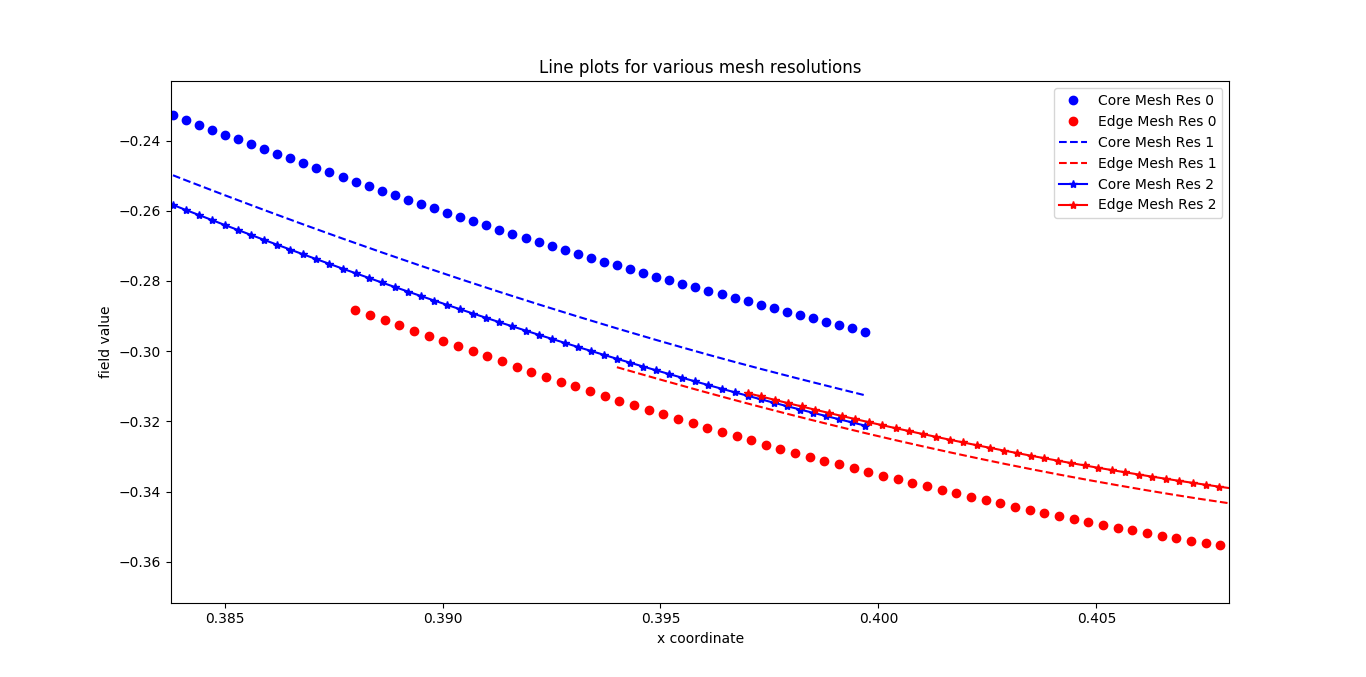
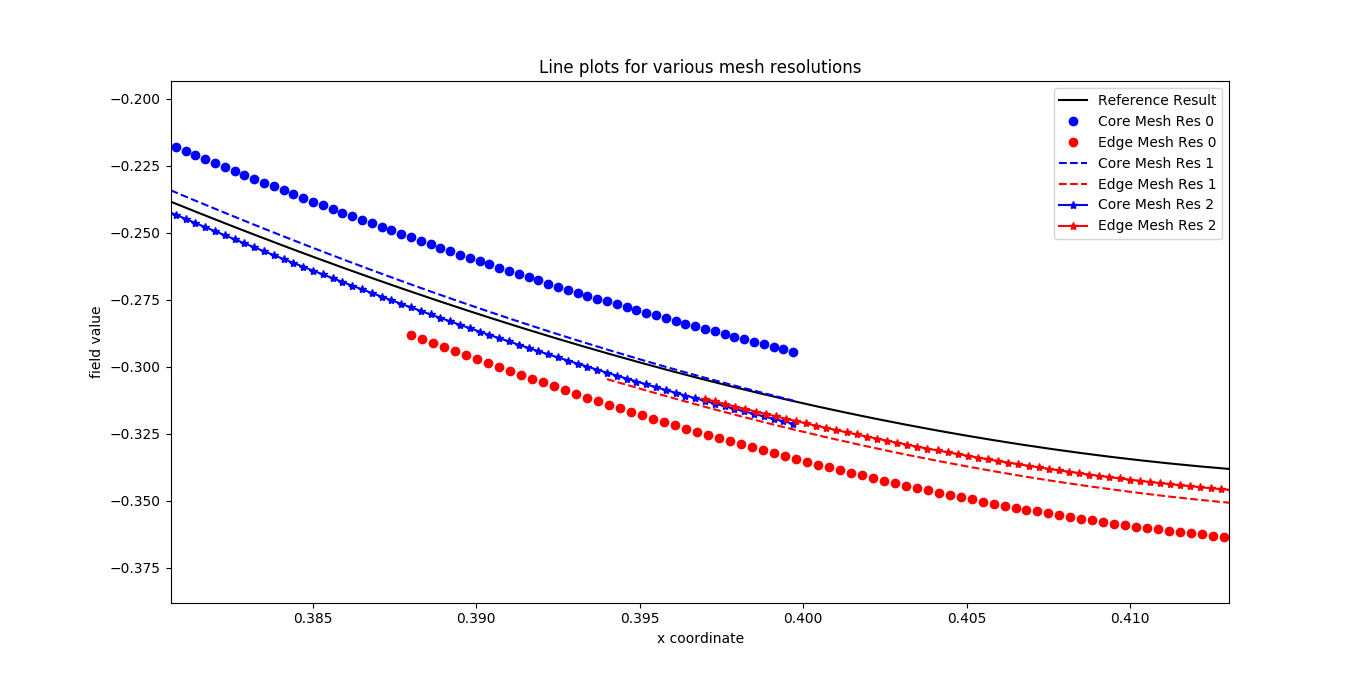
Adding reference field in plots

diff --git a/tools/compare_analysis.py b/tools/compare_analysis.py
@@ -185,11 +185,34 @@ def plot_cross_section(res_num, rmin, rmax_edge, rmin_core, rmax):
     coupled_vals = np.concatenate((line_core_f, line_edge_f), axis=0)
 
     gradient_vals = np.zeros(core_pts + edge_pts - 1)
-    for i in range(0, core_pts+edge_pts-1):
+    for i in range(core_pts+edge_pts-1):
         gradient_vals[i] = (coupled_vals[i+1] - coupled_vals[i]) / dr
 
     return core_x[:, 0], edge_x[:, 0], line_core_f, line_edge_f, gradient_core, gradient_edge
 
+
+def plot_ref_cross_section(ref_f, ref_pts):
+    line_x = []
+    n_points = 1000
+    dr = (0.5 - 0.2) / n_points
+
+    for i in range(n_points):
+        line_x.append([0.2 + dr * i, 0.0])
+
+    line_pts = np.array(line_x)
+
+    line_ref_f = griddata(ref_pts, ref_f, line_pts, method='cubic', fill_value=0.0)
+
+    gradient_vals = np.zeros(n_points - 1)
+    for i in range(n_points - 1):
+        gradient_vals[i] = (line_ref_f[i+1] - line_ref_f[i]) / dr
+
+    return line_pts[:, 0], line_ref_f, gradient_vals
+
+
+# Finest resolution for Polar code considered as reference result
+ref_points, ref_field = read_data('./output_ref/polar_ref.csv')
+print("Reference result has {} points".format(ref_field.size))
 
 # For each mesh resolution, fit data by interpolation and calculate error by L2 norm
 mesh_res = 3
@@ -219,6 +242,11 @@ for res in range(mesh_res):
     core_flux_plot.append(core_flux)
     edge_flux_plot.append(edge_flux)
 
+refpts_plot, refv_plot, ref_flux_plot = plot_ref_cross_section(ref_field, ref_points)
+plt.plot()
+
+plt.plot(refpts_plot, refv_plot, 'k-', label="Reference Result", linewidth=1.5)
+
 plt.plot(corepts_plot[0], corev_plot[0], 'bo', label="Core Mesh Res 0")
 plt.plot(edgepts_plot[0], edgev_plot[0], 'ro', label="Edge Mesh Res 0")
 
@@ -231,32 +259,40 @@ plt.legend(loc='best')
 plt.show()
 
 # Remove last x coordinate as gradient by forward difference is not computed at this point
-core_plot_pts = np.zeros(666)
-for i in range(core_plot_pts.size):
-    core_plot_pts[i] = core_pts[i]
+core_flux_pts = []
+edge_flux_pts = []
+for res in range(mesh_res):
+    corepts = []
+    for i in range(666):
+        corepts.append(corepts_plot[res][i])
+    core_flux_pts.append(corepts)
 
-edge_plot_pts = np.zeros(332)
-for i in range(edge_plot_pts.size):
-    edge_plot_pts[i] = edge_pts[i]
+    edgepts = []
+    for i in range(332):
+        edgepts.append(edgepts_plot[res][i])
+    edge_flux_pts.append(edgepts)
+
+ref_flux_pts = []
+for i in range(999):
+    ref_flux_pts.append(refpts_plot[i])
 
 plt.xlabel('x coordinate')
 plt.ylabel('flux')
 plt.title('Flux along line plots for various mesh resolutions')
 
-plt.plot(core_plot_pts, core_flux_plot[0], 'bo', label="Core Mesh Res 0")
-plt.plot(edge_plot_pts, edge_flux_plot[0], 'ro', label="Edge Mesh Res 0")
+plt.plot(ref_flux_pts, ref_flux_plot, 'k-', label="Reference Result", linewidth=1.5)
 
-plt.plot(core_plot_pts, core_flux_plot[1], 'b--', label="Core Mesh Res 1")
-plt.plot(edge_plot_pts, edge_flux_plot[1], 'r--', label="Edge Mesh Res 1")
+plt.plot(core_flux_pts[0], core_flux_plot[0], 'bo', label="Core Mesh Res 0")
+plt.plot(edge_flux_pts[0], edge_flux_plot[0], 'ro', label="Edge Mesh Res 0")
 
-plt.plot(core_plot_pts, core_flux_plot[2], 'b-*', label="Core Mesh Res 2")
-plt.plot(edge_plot_pts, edge_flux_plot[2], 'r-*', label="Edge Mesh Res 2")
+plt.plot(core_flux_pts[1], core_flux_plot[1], 'b--', label="Core Mesh Res 1")
+plt.plot(edge_flux_pts[1], edge_flux_plot[1], 'r--', label="Edge Mesh Res 1")
+
+plt.plot(core_flux_pts[2], core_flux_plot[2], 'b-*', label="Core Mesh Res 2")
+plt.plot(edge_flux_pts[2], edge_flux_plot[2], 'r-*', label="Edge Mesh Res 2")
 plt.legend(loc='best')
 plt.show()
 
-# Finest resolution for Polar code considered as reference result
-ref_points, ref_field = read_data('./output_ref/polar_ref.csv')
-print("Reference result has {} points".format(ref_field.size))
 
 err_edge = np.zeros(mesh_res)
 err_core = np.zeros(mesh_res)
